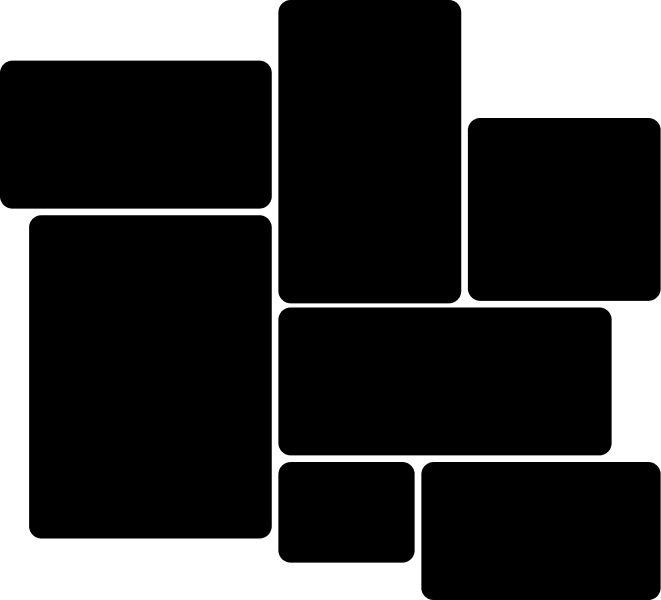
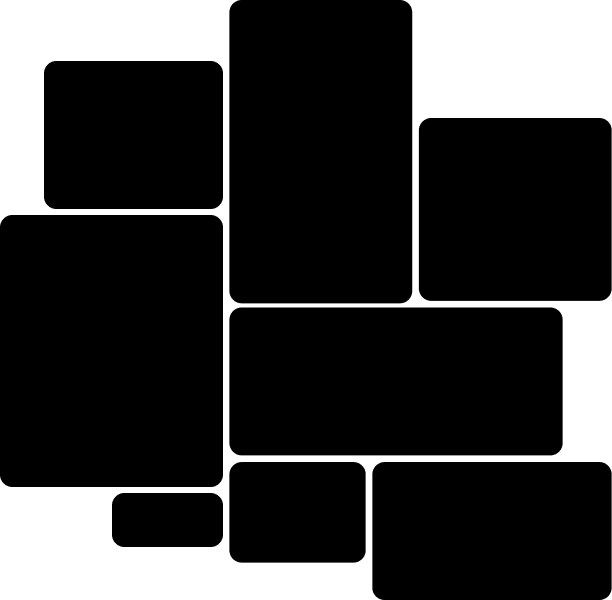
update pro hero image

diff --git a/styles/global.css b/styles/global.css
@@ -28,7 +28,7 @@ html {
 }
 
 .pro_hero_image {
-  background-image: url(https://images.unsplash.com/photo-1519923834699-ef0b7cde4712?ixlib=rb-1.2.1&ixid=MnwxMjA3fDB8MHxzZWFyY2h8NDh8fGluc3RhZ3JhbXxlbnwwfHwwfHw%3D&auto=format&fit=crop&w=600&q=60);
+  background-image: url(/website_mockup.jpg);
   background-size: cover;
   background-position: center;
   background-repeat: no-repeat;

diff --git a/components/pro/ProHero.tsx b/components/pro/ProHero.tsx
@@ -59,7 +59,7 @@ const ProHero: FC = () => {
           </div>
         </div>
 
-        <div className="pro_hero_image mt-10 h-[545px] w-[560px] xl:h-[600px] xl:w-[660px]"></div>
+        <div className="pro_hero_image mt-10 h-[545px] w-[560px] xl:h-[600px] xl:w-[610px]"></div>
       </div>
     </div>
   );
